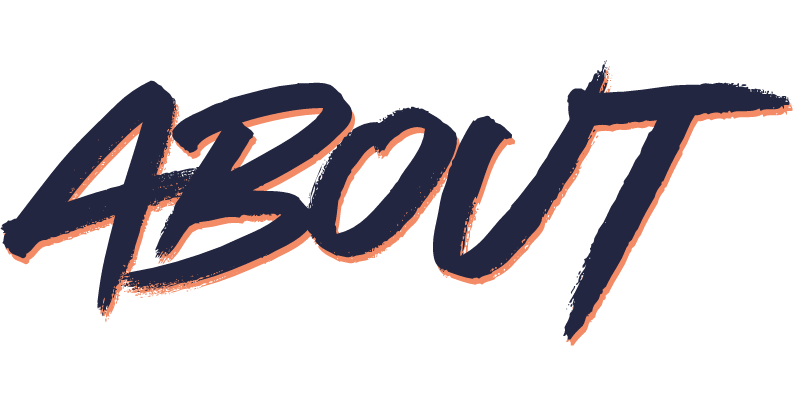
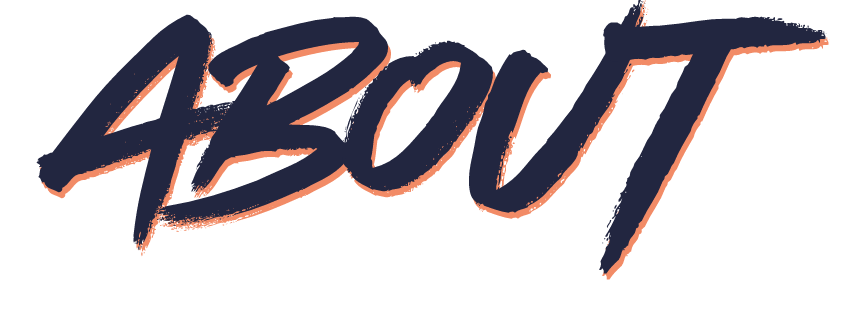
Standardized title images Title images are now 8 bit PNG with consistent dimensions. Fixed centering. Removed left-padding from Aloha.png on Home view.

Changed region(s): [[0.0, 0.0, 1.0, 0.875]]

diff --git a/src/views/Home.vue b/src/views/Home.vue
@@ -1,6 +1,6 @@
 <template>
   <div class="home">
-    <DropTitle style="margin-left: 1em;" :img="require('../assets/Aloha.png')" alt="Aloha, I'm Andy" />
+    <DropTitle :img="require('../assets/Aloha.png')" alt="Aloha, I'm Andy" />
     <Content title="I'm a full-stack developer from Aiea, Hawaii" :sequence="0">
       <p>
         Aloha, my name's Andy and I prefer calling myself a

diff --git a/src/components/DropTitle.vue b/src/components/DropTitle.vue
@@ -11,7 +11,7 @@
 
 .drop-title {
   overflow: hidden;
-  margin-bottom: -2em;
+  margin: 1em 0 -5em 0;
   text-align: center;
 
   @media #{$landscape} {
